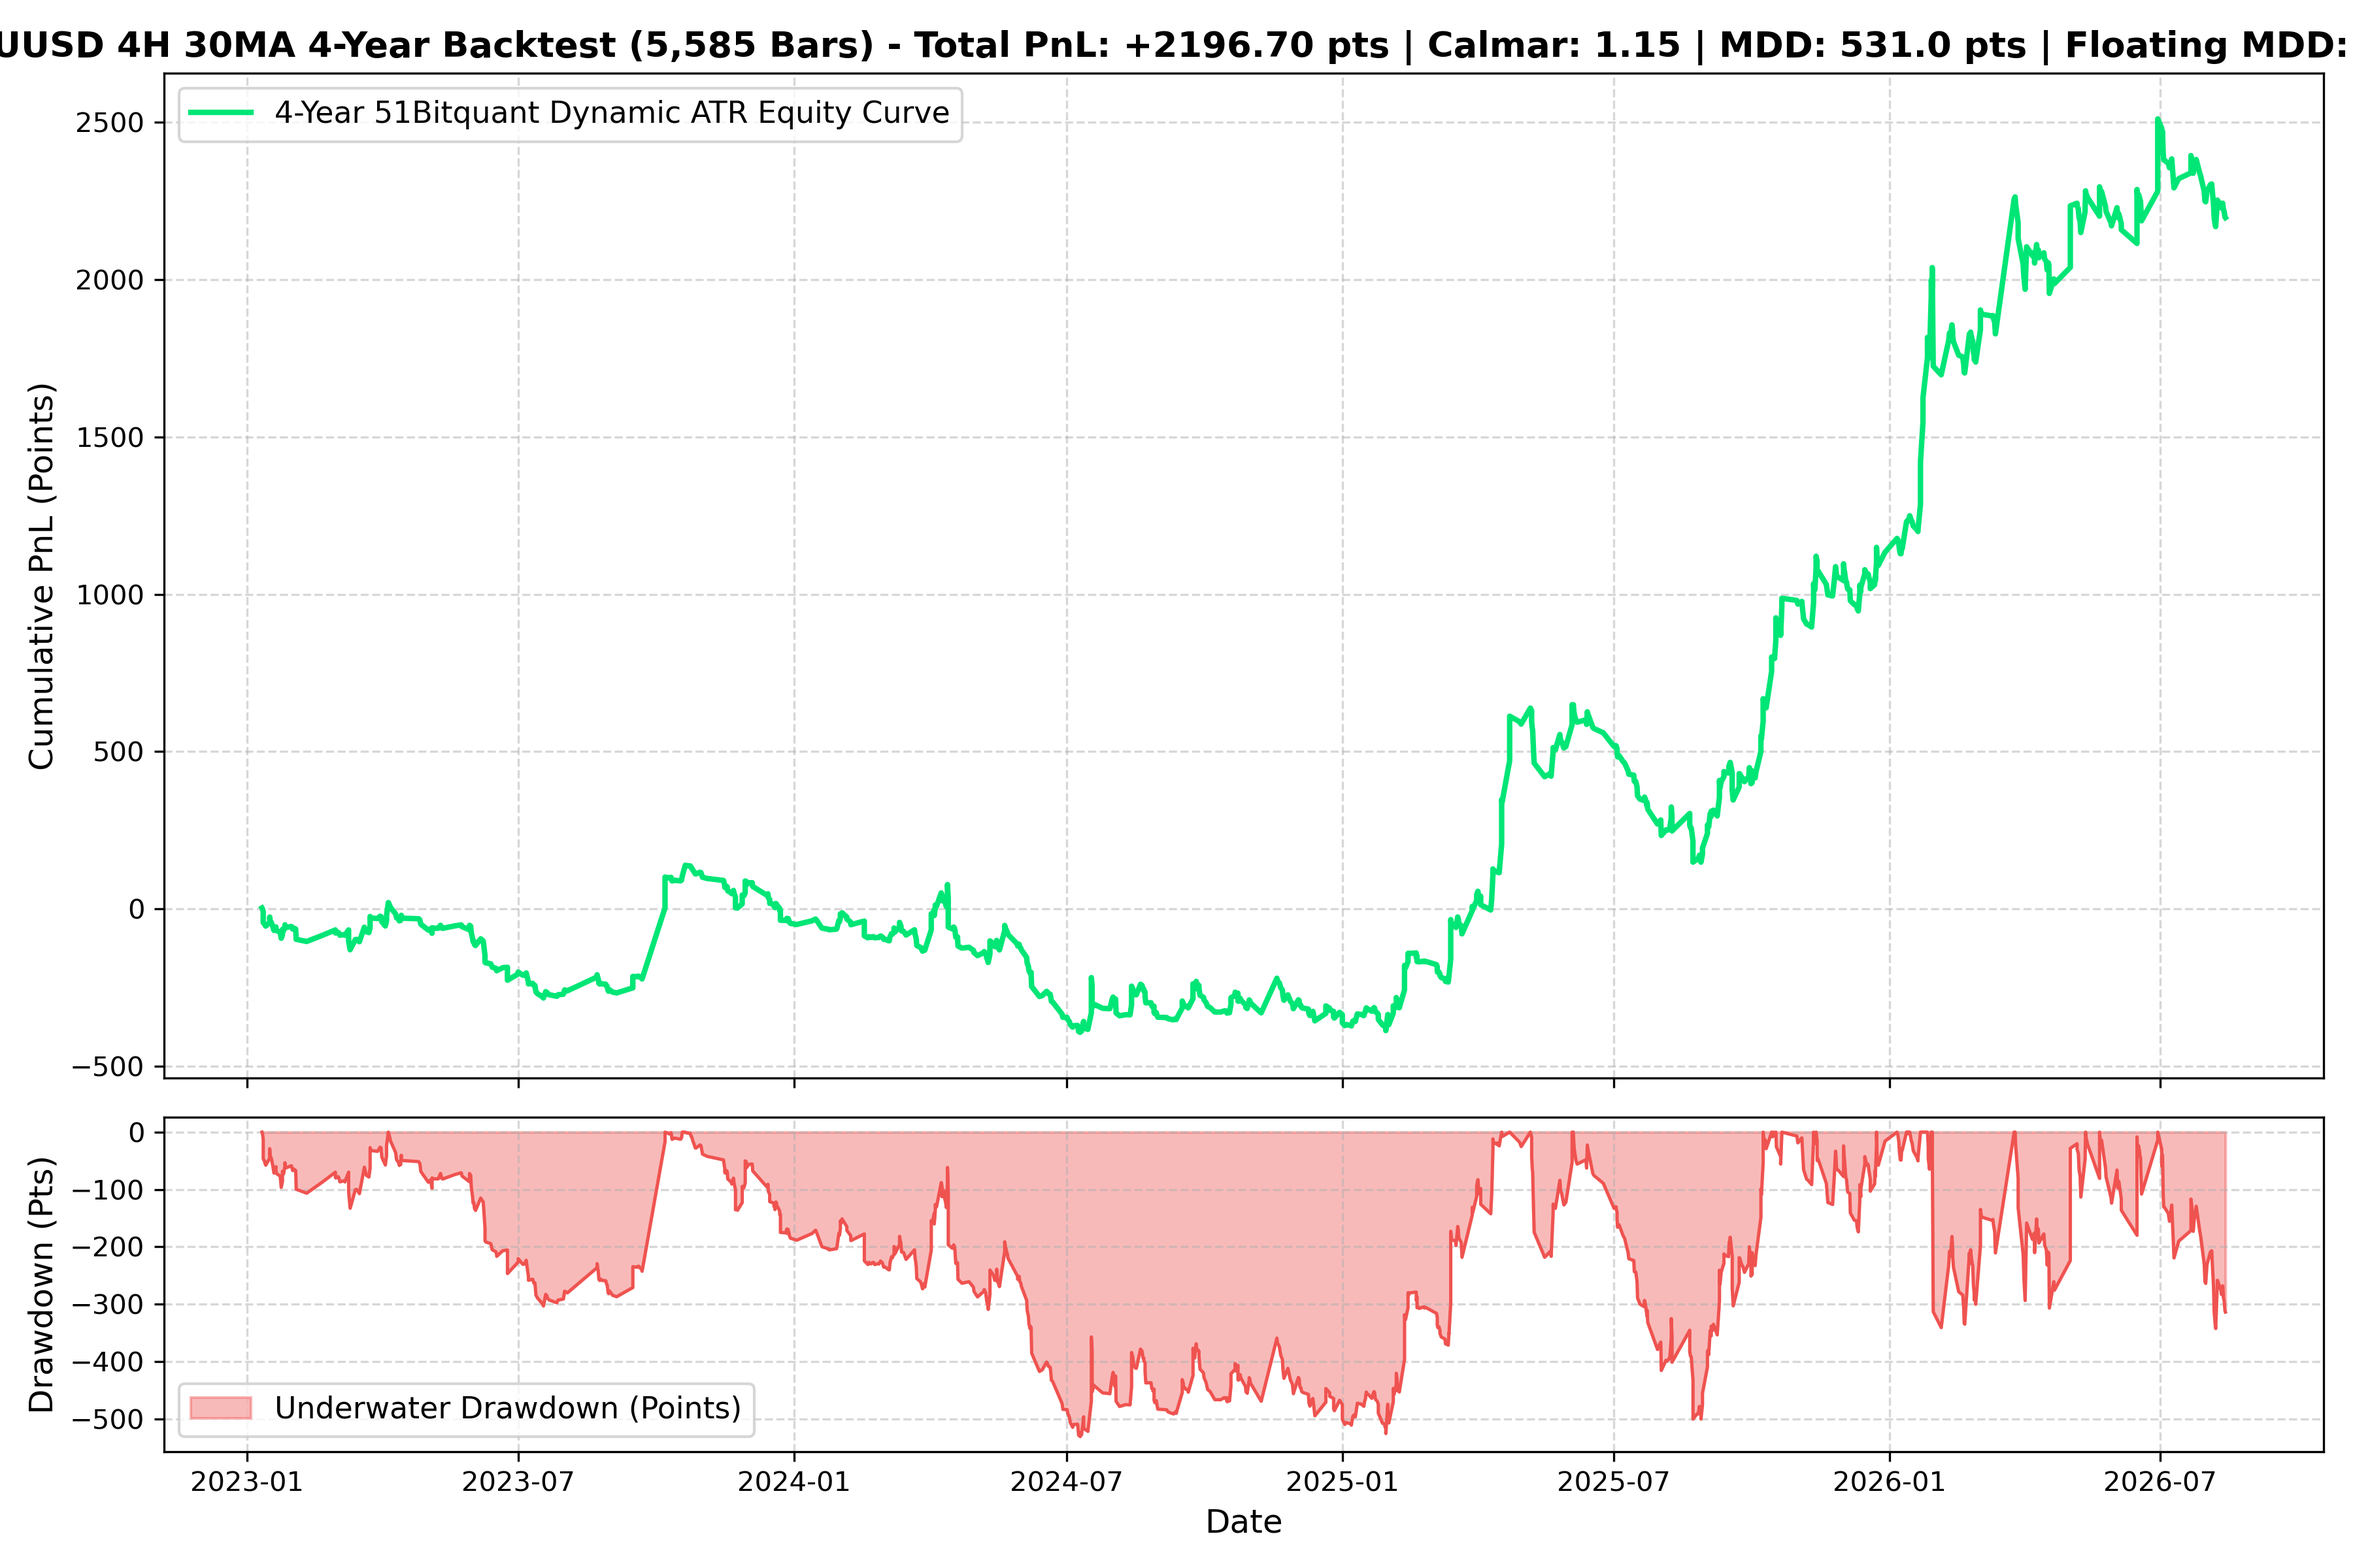
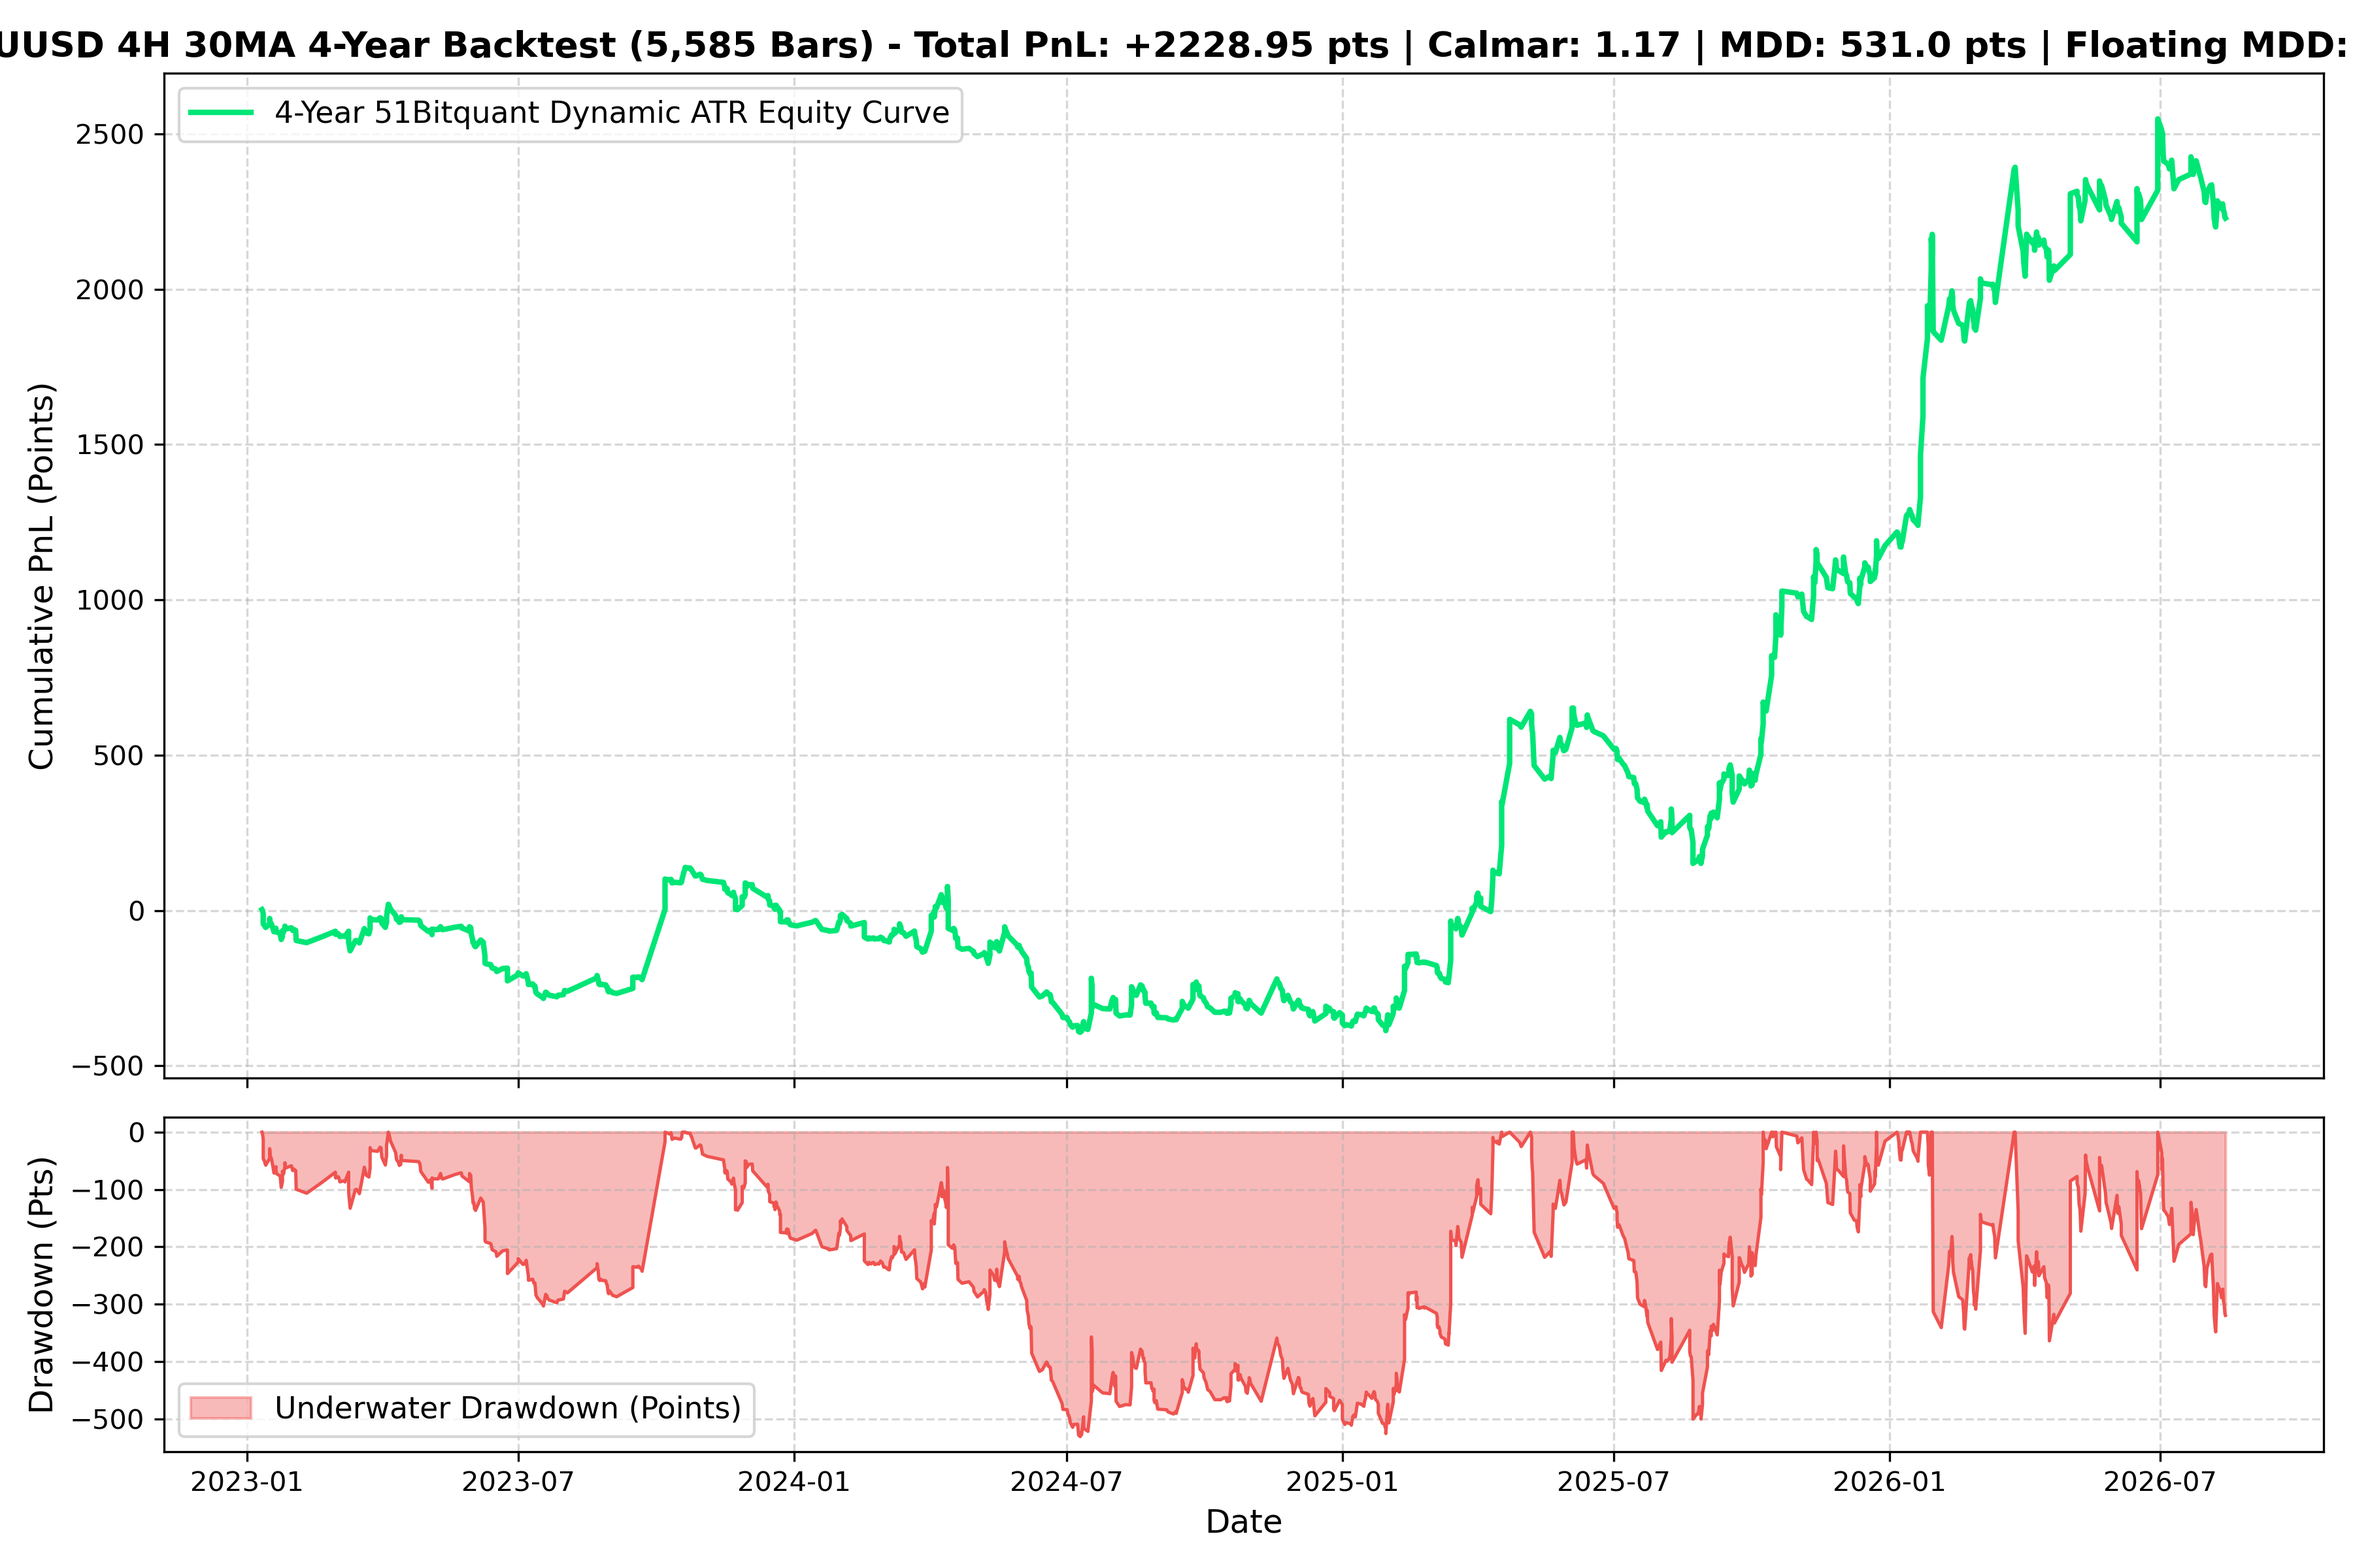
fix: align alpha_floor=1.0 across EA/Python/4yr backtest - fixes 16 pyramid trades sizing discrepancy

diff --git a/index.html b/index.html
@@ -251,6 +251,6 @@
     </div> <!-- 儀表板全頁容器結束 -->
 
     <!-- 引入應用程式主邏輯 app.js (加版本號強制瀏覽器重新載入最新修復腳本) -->
-    <script src="app.js?v=2.2"></script> <!-- 載入前端互動與渲染腳本 -->
+    <script src="app.js?v=3.0"></script> <!-- 載入前端互動與渲染腳本 (v3.0 alpha_floor 修正版) -->
 </body> <!-- 網頁主體結束 -->
 </html> <!-- HTML5 文件結束 -->

diff --git a/gold_adaptive_strategy.py b/gold_adaptive_strategy.py
@@ -81,7 +81,7 @@ def calculate_atr(df, period=14):  # 計算真實波幅均值 ATR 函數
 def sanitize_list(lst):  # 替換 NaN 為 None (JSON null) 函數
     return [None if (v is None or pd.isna(v) or np.isnan(v)) else float(v) for v in lst]  # 遍歷替換
 
-def simulate_adaptive_direction(df, is_long_only=True, baseline_atr=16.0, alpha_floor=0.5):  # 51Bitquant 波動度自適應單向策略模擬子引擎
+def simulate_adaptive_direction(df, is_long_only=True, baseline_atr=16.0, alpha_floor=1.0):  # 51Bitquant 波動度自適應單向策略模擬子引擎 (alpha_floor 對齊 EA InpAlphaTrendFloor=1.0)
     n = len(df)  # 資料總筆數
     active_positions = []  # 當前持倉部位清單
     completed_trades = []  # 已完結交易記錄清單
@@ -359,8 +359,8 @@ def run_backtest():  # 執行自適應策略回測主程式
 
     # 執行 51Bitquant 波動度自適應回測 (基準 ATR = 16.0 點)
     baseline_atr_setting = 16.0  # 設定黃金 4H 基準 ATR
-    pos_l, trades_l, ann_l = simulate_adaptive_direction(df, is_long_only=True, baseline_atr=baseline_atr_setting)  # 模擬自適應多頭
-    pos_s, trades_s, ann_s = simulate_adaptive_direction(df, is_long_only=False, baseline_atr=baseline_atr_setting)  # 模擬自適應空頭
+    pos_l, trades_l, ann_l = simulate_adaptive_direction(df, is_long_only=True, baseline_atr=baseline_atr_setting, alpha_floor=1.0)  # 模擬自適應多頭 (alpha_floor=1.0 對齊 EA)
+    pos_s, trades_s, ann_s = simulate_adaptive_direction(df, is_long_only=False, baseline_atr=baseline_atr_setting, alpha_floor=1.0)  # 模擬自適應空頭 (alpha_floor=1.0 對齊 EA)
 
     all_active = pos_l + pos_s  # 聯集持倉
     all_trades = trades_l + trades_s  # 聯集交易

diff --git a/run_4yr_backtest.py b/run_4yr_backtest.py
@@ -111,6 +111,8 @@ def run_4yr_adaptive_backtest():  # 執行 4 年全數據回測
                                 atr_ratio = baseline_atr / max(tatr, 4.0)  # 計算波動度倒數係數
                                 base_mult = 2.0 if dy_a10 > 0.03 else 1.0  # 基礎乘數
                                 u = round(min(2.5, max(0.5, base_mult * atr_ratio)), 2)  # 調制手數
+                                if dy_a10 > 0.04 and u < 1.0:  # 超強單邊動能保底保護 (對齊 EA InpAlphaTrendFloor=1.0)
+                                    u = 1.0  # 強制保底至 1.0x
                                 new_p.append({'pyr': True, 'u': u, 'ed': ns, 'ep': no, 'sl': min(tl, tpl) - 1.0 * tatr, 'mae': 0.0})  # 加多
                         pos = new_p  # 更新部位
                 else:  # 空手主多
@@ -144,6 +146,8 @@ def run_4yr_adaptive_backtest():  # 執行 4 年全數據回測
                                 atr_ratio = baseline_atr / max(tatr, 4.0)  # 計算波動度係數
                                 base_mult = 2.0 if dy_a10 < -0.03 else 1.0  # 基礎乘數
                                 u = round(min(2.5, max(0.5, base_mult * atr_ratio)), 2)  # 調制手數
+                                if dy_a10 < -0.04 and u < 1.0:  # 超強單邊空頭動能保底保護 (對齊 EA InpAlphaTrendFloor=1.0)
+                                    u = 1.0  # 強制保底至 1.0x
                                 new_p.append({'pyr': True, 'u': u, 'ed': ns, 'ep': no, 'sl': max(th, tph) + 1.0 * tatr, 'mae': 0.0})  # 加空
                         pos = new_p  # 更新持倉
                 else:  # 空手主空
